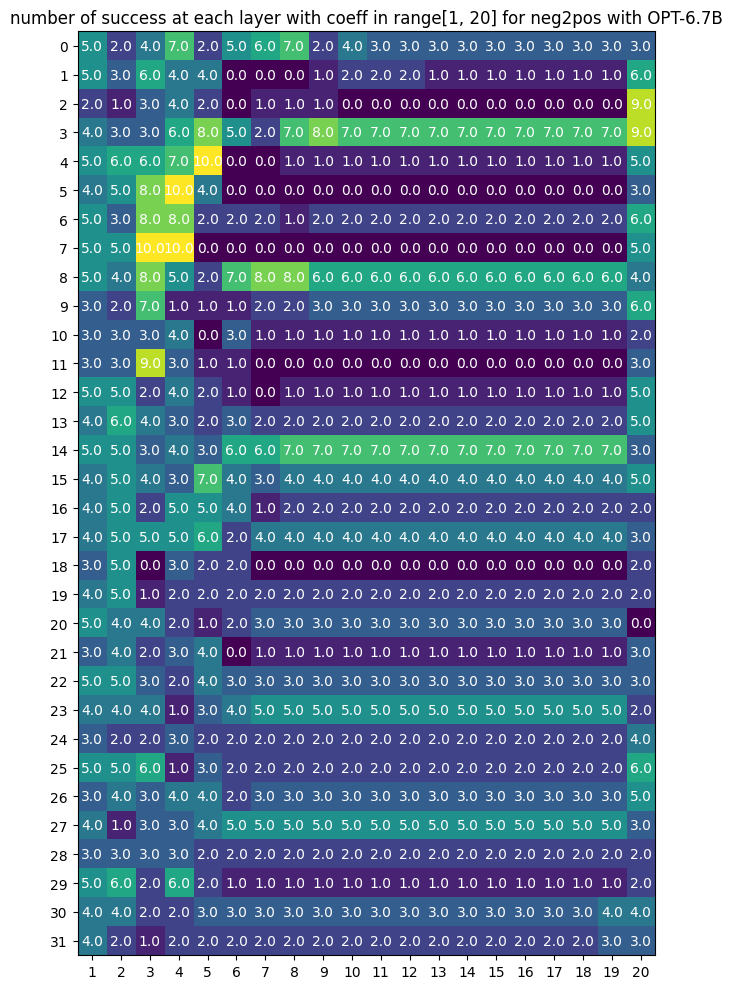
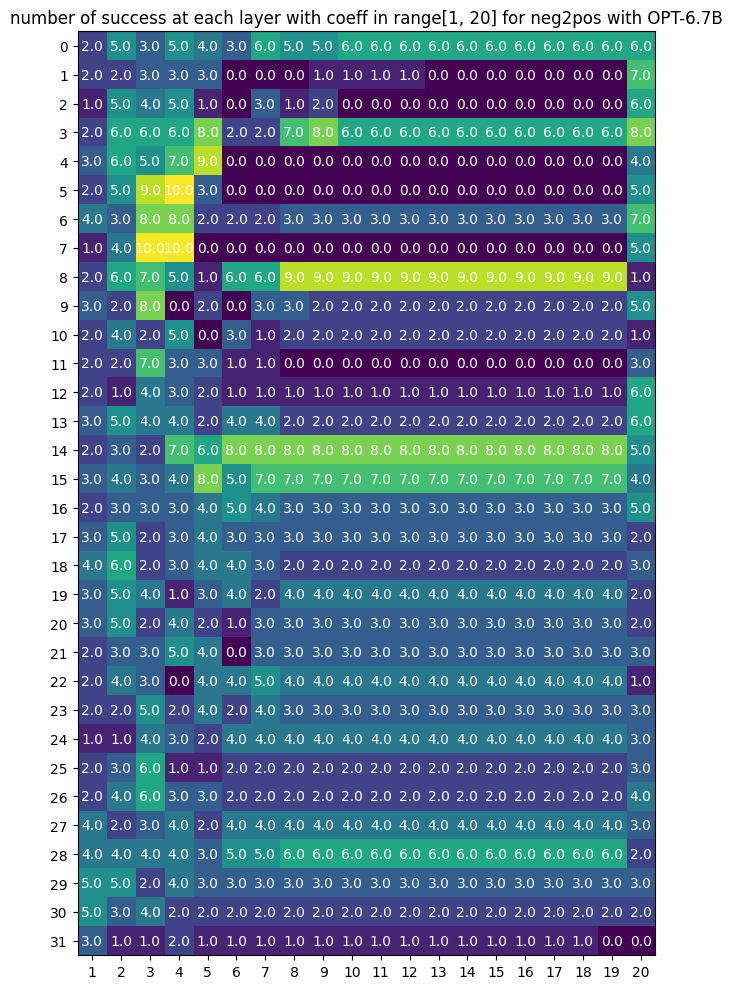
opt hp tuning

diff --git a/python_scripts/utils_aa.py b/python_scripts/utils_aa.py
@@ -1,6 +1,7 @@
 import json
 import pandas as pd
 import torch
+from config import *
 from sklearn.metrics.pairwise import cosine_similarity
 from torch.utils.data import Dataset, DataLoader
 
@@ -31,7 +32,7 @@ def hooked_generate(prompts, editing_hooks, model, seed=0, **kwargs):
     """
     torch.manual_seed(seed)
     with model.hooks(fwd_hooks=editing_hooks):
-        result = model.generate(input=prompts, max_new_tokens=64, do_sample=True, **kwargs)
+        result = model.generate(input=prompts, max_new_tokens=max_new_tokens, do_sample=True, **kwargs)
     return result
 
 def load_data(file_name, slice=0):
@@ -148,6 +149,51 @@ class ModelDataset(Dataset):
     def __len__(self):
         return self.n_samples
 
+def batch_steer(prompt_add, prompt_sub, prompts, layer, coeff, seed, model, sampling_kwargs):
+    """
+    prompts: a list of strings
+    return: a panda dataframe with two columns, "prompt", and 
+    "generated_text": the prompt and the continuing steered generated text
+    """
+    df = pd.DataFrame({"prompt": prompts})
+    # get the steering vector
+    tokens_add, tokens_sub = prompts2tokens(prompt_add, prompt_sub, model)
+    act_add = tokens2resid_pre(tokens_add, layer, model)
+    act_sub = tokens2resid_pre(tokens_sub, layer, model)
+    act_diff = act_add - act_sub
+    act_diff = act_diff * coeff
+
+    def add_activation(activation, hook):
+        if activation.shape[1] == 1: return
+        prompt_dim, steering_dim = activation.shape[1], act_diff.shape[1]
+        try:
+            activation[:, :steering_dim, :] += act_diff
+        except:
+            print(f"More mod tokens ({steering_dim}) than prompt tokens ({prompt_dim})!")
+
+    # generate with the steering vector
+    editing_hooks = [(f"blocks.{layer}.hook_resid_pre", add_activation)]
+    generated_text = hooked_generate(prompts, editing_hooks, model, seed, **sampling_kwargs)
+    df["generated_text"] = generated_text
+    return df
+
+def batch_base_generate(prompts, model, seed, kwargs):
+    """
+    prompts: a list of strings
+    return: a panda dataframe with two columns, "prompt", and 
+    "generated_text": the prompt and the continuing unsteered generated text
+    """
+    df = pd.DataFrame({"prompt": prompts})
+    torch.manual_seed(seed)
+    generated_text = model.generate(
+        input=prompts,
+        max_new_tokens=max_new_tokens, 
+        do_sample=True, 
+        **kwargs
+    )
+    df["generated_text"] = generated_text
+    return df
+
 def trim_text(row):
     """
     helper function to be applied to df 
@@ -156,6 +202,16 @@ def trim_text(row):
     gen_text = row["generated_text"]
     prompt = row["prompt"]
     return gen_text[len(prompt):]
+
+def remove_prompt(df):
+    """
+    df contains two columns: "prompt", and 
+    "generated_text": the prompt and the continuing generated text
+    return the same df but with the prompt removed from "generated_text"
+    """
+    continuation = df.apply(trim_text, axis=1)
+    df["generated_text"] = continuation
+    return df
 
 def map_labels(row):
     """
@@ -166,6 +222,30 @@ def map_labels(row):
         return 0
     if row["label"] == "POSITIVE":
         return 1
+
+def batch_sentiment(df, sentiment_model, keep_score):
+    """
+    df contains two columns: "prompt", and 
+    "generated_text": the continuing generated text
+    sentiment analyse in batch and map the sentiment label to 0/1
+    if keep_score is True, the score is included in the returned df
+    return a df with additional column(s)
+    """
+    sentiment_batch = sentiment_model(df["generated_text"].values.tolist())
+    sentiment_df = pd.DataFrame(sentiment_batch)
+    sentiment_labels = sentiment_df.apply(map_labels, axis=1)
+    df["continuation_label"] = sentiment_labels
+    if keep_score:
+        df["sentiment_score"] = sentiment_df["score"]
+    return df
+
+def pipeline_base_batch(prompts, base_model, sentiment_model, seed, sampling_kwargs, keep_score=False, relevance_model=None):
+    df = batch_base_generate(prompts, base_model, seed, sampling_kwargs)
+    df = remove_prompt(df)
+    df = batch_sentiment(df, sentiment_model, keep_score)
+    if relevance_model:
+        pass
+    return df
 
 def pipeline_steer_batch(prompt_add, prompt_sub, prompts_batch, steer_model, sentiment_model, relevance_model, layer, coeff, seed, sampling_kwargs):
     """

diff --git a/python_scripts/hyperparameter_tuning.py b/python_scripts/hyperparameter_tuning.py
@@ -1,20 +1,16 @@
 """
 https://www.geeksforgeeks.org/machine-learning/hyperparameter-tuning/
 GridSearchCV 
-for each layer, get the steering vector
-    for coeff in range(1, 21):
-        steer 10 prompts with the vector and coeff
-        count the number of success
-return the layer, coeff of the max count
 alternatives: RandomizedSearchCV and Bayesian Optimization
 """
 
 # from sentence_transformers import SentenceTransformer
 # from sklearn.metrics.pairwise import cosine_similarity
 from config import *
+from pprint import pprint
 from transformers import pipeline
 from transformer_lens.model_bridge import TransformerBridge
-from utils_aa import ht_count, load_data
+from utils_aa import ht_count, load_data, pipeline_base_batch
 import time
 import torch
 import transformer_lens.utilities as utils
@@ -24,18 +20,25 @@ device = utils.get_device()
 print("device:", device)
 
 
-if __name__ == '__main__':
-    seed, max_coeff = 0, 20
-    sampling_kwargs = dict(temperature=1.0, top_p=1.0, freq_penalty=0.0)
+def quantitative(steer_path, file_path):
+    """
+    steer_path: path to the steering model
+    file_path: the matching path for the file that contains the prompts
+    for each layer, get the steering vector
+        for coeff in range(1, 21):
+            steer 10 prompts with the vector and coeff
+            count the number of success
+    print the grid, the layer, coeff of the first max count
+    """
     # load steering model
-    model_steer = TransformerBridge.boot_transformers(path_opt, device=device)
-    print(f"steering model loaded to {device}")
+    model_steer = TransformerBridge.boot_transformers(steer_path, device=device)
+    print(f"steering model loaded to {device} from {steer_path}")
     # model_steer.enable_compatibility_mode()  # this line causes oom error
     # load sentiment model
     model_sentiment = pipeline("sentiment-analysis", model=path_siebert)
     print("sentiment model loaded")
     # load data
-    prompts_neg = load_data("imdb_neg_opt.json", 10)
+    prompts = load_data(file_path, num_samples)
     # check the number of layers
     n_layers = model_steer.cfg.n_layers
     print(f"number of layers: {n_layers}")
@@ -46,7 +49,7 @@ if __name__ == '__main__':
     for layer in range(n_layers):
         grid = ht_count(prompt_add=" love", 
                         prompt_sub=" hate", 
-                        prompts=prompts_neg, 
+                        prompts=prompts, 
                         steer_model=model_steer, 
                         sentiment_model=model_sentiment, 
                         layer=layer, 
@@ -55,5 +58,25 @@ if __name__ == '__main__':
                         grid=grid,
                         max_coeff=max_coeff)
         print(f"time elapsed: {round((time.time() - start)/60, 2)} mins")
+        break
     print(grid)
     print(f"max: {grid.max().item()} at index {(grid == grid.max().item()).nonzero(as_tuple=False)[0]}, min: {grid.min().item()} at {(grid == grid.min().item()).nonzero(as_tuple=False)[0]}")
+
+def baseline(model_path, file_path):
+    # load steering model
+    model_generate = TransformerBridge.boot_transformers(model_path, device=device)
+    print(f"baseline generating model loaded to {device} from {model_path}")
+    # load sentiment model
+    model_sentiment = pipeline("sentiment-analysis", model=path_siebert)
+    print("sentiment model loaded")
+    # load data
+    prompts = load_data(file_path, num_samples)
+    base_df = pipeline_base_batch(prompts, model_generate, model_sentiment, seed, sampling_kwargs, True, None)
+    means = base_df["sentiment_score"].groupby("continuation_label").mean()
+    print(f"{sum(base_df["continuation_label"])} positive, means: {means}")
+    pprint(base_df)
+
+if __name__ == '__main__':
+    quantitative(path_Llama3, "imdb_neg_llama.json")
+    # baseline(path_Llama3, "imdb_neg_llama.json")
+

diff --git a/python_scripts/config.py b/python_scripts/config.py
@@ -3,3 +3,11 @@ path_siebert = "/scratch/common_models/SiEBERT/"
 path_all_MiniLM = "/scratch/common_models/all-MiniLM-L6-v2/"
 path_Llama3 = "/scratch/common_models/Meta-Llama-3-8B/"
 path_opt = "/scratch/common_models/opt-6.7b/"
+
+seed = 0
+max_new_tokens = 64
+max_coeff = 20  # for hyperparameter tuning
+num_samples = 10  # for hyperparameter tuning
+sampling_kwargs = dict(temperature=1.0, top_p=1.0, freq_penalty=0.0)
+
+

diff --git a/python_scripts/batch_steer_sentiment_similarity.py b/python_scripts/batch_steer_sentiment_similarity.py
@@ -12,8 +12,7 @@ device = utils.get_device()
 print("device:", device)
     
 if __name__ == '__main__':
-    layer, coeff, seed = 6, 5, 0
-    sampling_kwargs = dict(temperature=1.0, top_p=1.0, freq_penalty=0.0)
+    layer, coeff = 6, 5
     # load steering model
     model_steer = TransformerBridge.boot_transformers(path_Llama3, device=device)
     print(f"steering model loaded to {device}")

diff --git a/python_scripts/steer_sentiment_similarity.py b/python_scripts/steer_sentiment_similarity.py
@@ -11,8 +11,7 @@ print("device:", device)
 
 
 if __name__ == '__main__':
-    layer, coeff, seed = 6, 5, 0
-    sampling_kwargs = dict(temperature=1.0, top_p=1.0, freq_penalty=0.0)
+    layer, coeff = 6, 5
     # load steering model
     model_steer = TransformerBridge.boot_transformers(path_Llama3, device=device)
     print(f"steering model loaded to {device}")

diff --git a/readme.md b/readme.md
@@ -39,7 +39,7 @@ attempted fix: `!pip install transformers==4.31.0`, error persists.
 this issue is not seen in `Transformer Lens Main Demo Notebook`, which does not specify `transformer_lens==1.17.0`              
 for this reason in this project `Version: 3.4.0` is used instead            
 to run `ActAdd_sentiment_llama3_anon` properly `==1.17.0` is commented out in the install cell
-- `from sentence_transformers import SentenceTransformer`,          
+- `from sentence_transformers import SentenceTransformer`,         
 RuntimeError: Could not load libtorchcodec. Likely causes:          
 1. FFmpeg is not properly installed           
 2. The PyTorch version (2.7.1+cu126) is not compatible              
@@ -144,8 +144,8 @@ as there are multiple combinations that lead to max count of success, further ex
 
 if possible, use the best result combination from earlier layers           
 
-- for neg2pos (love-hate) with max_coeff=20, sample_size=10
-  - LLaMA-3-8B: 197.31 mins  
+### for neg2pos (love-hate) with max_coeff=20, sample_size=10
+- LLaMA-3-8B: 197.31 mins  
 
 ![number of success at each layer with coeff in range[1, 20] for neg2pos with LLaMA-3-8B](graphs/neg2pos_llama.png "number of success at each layer with coeff in range[1, 20] for neg2pos with LLaMA-3-8B")
 <details>
@@ -188,16 +188,17 @@ if possible, use the best result combination from earlier layers
 ``` 
 </details>
 
-max: 7.0 at index tensor([10,  6]) *l=10, coeff=7*, min: 1.0 at tensor([0, 4])
+max: 7.0 at index tensor([10, 6]) *l=10, coeff=7*, min: 1.0 at tensor([0, 4])
 
 question: the paper did not specify how they did hyperparameter tuning. is eyeball-ing the result appropriate? (esp. with the smaller value)                
   - OPT-6.7B: 126.18 mins **on imdb_neg_llama.json**  
 
-![number of success at each layer with coeff in range[1, 20] for neg2pos with OPT-6.7B](graphs/neg2pos_opt.png "number of success at each layer with coeff in range[1, 20] for neg2pos with OPT-6.7B")
-
 <details>
 
-<summary>the original matrix</summary>
+<summary>expand</summary>
+
+![number of success at each layer with coeff in range[1, 20] for neg2pos with OPT-6.7B](graphs/neg2pos_opt_llama.png "number of success at each layer with coeff in range[1, 20] for neg2pos with OPT-6.7B")
+
 
 ```
        [[ 5., 2., 4., 7., 2., 5., 6., 7., 2., 4., 3., 3., 3., 3., 3., 3., 3., 3., 3., 3.],
@@ -233,9 +234,55 @@ question: the paper did not specify how they did hyperparameter tuning. is eyeba
         [ 4., 4., 2., 2., 3., 3., 3., 3., 3., 3., 3., 3., 3., 3., 3., 3., 3., 3., 4., 4.],
         [ 4., 2., 1., 2., 2., 2., 2., 2., 2., 2., 2., 2., 2., 2., 2., 2., 2., 2., 3., 3.]]
 ```
+max: 10.0 at index tensor([4, 4]), min: 0.0 at tensor([1, 5])
+
 </details>
 
-max: 10.0 at index tensor([4, 4]), min: 0.0 at tensor([1, 5])
+  - OPT-6.7B: 126.46 mins **on imdb_neg_opt.json**  
+
+![number of success at each layer with coeff in range[1, 20] for neg2pos with OPT-6.7B](graphs/neg2pos_opt.png "number of success at each layer with coeff in range[1, 20] for neg2pos with OPT-6.7B")
+
+<details>
+
+<summary>the original matrix</summary>
+
+```
+       [[ 2., 5., 3., 5., 4., 3., 6., 5., 5., 6., 6., 6., 6., 6., 6., 6., 6., 6., 6., 6.],
+        [ 2., 2., 3., 3., 3., 0., 0., 0., 1., 1., 1., 1., 0., 0., 0., 0., 0., 0., 0., 7.],
+        [ 1., 5., 4., 5., 1., 0., 3., 1., 2., 0., 0., 0., 0., 0., 0., 0., 0., 0., 0., 6.],
+        [ 2., 6., 6., 6., 8., 2., 2., 7., 8., 6., 6., 6., 6., 6., 6., 6., 6., 6., 6., 8.],
+        [ 3., 6., 5., 7., 9., 0., 0., 0., 0., 0., 0., 0., 0., 0., 0., 0., 0., 0., 0., 4.],
+        [ 2., 5., 9., 10., 3., 0., 0., 0., 0., 0., 0., 0., 0., 0., 0., 0., 0., 0., 0., 5.],
+        [ 4., 3., 8., 8., 2., 2., 2., 3., 3., 3., 3., 3., 3., 3., 3., 3., 3., 3., 3., 7.],
+        [ 1., 4., 10., 10., 0., 0., 0., 0., 0., 0., 0., 0., 0., 0., 0., 0., 0., 0., 0., 5.],
+        [ 2., 6., 7., 5., 1., 6., 6., 9., 9., 9., 9., 9., 9., 9., 9., 9., 9., 9., 9., 1.],
+        [ 3., 2., 8., 0., 2., 0., 3., 3., 2., 2., 2., 2., 2., 2., 2., 2., 2., 2., 2., 5.],
+        [ 2., 4., 2., 5., 0., 3., 1., 2., 2., 2., 2., 2., 2., 2., 2., 2., 2., 2., 2., 1.],
+        [ 2., 2., 7., 3., 3., 1., 1., 0., 0., 0., 0., 0., 0., 0., 0., 0., 0., 0., 0., 3.],
+        [ 2., 1., 4., 3., 2., 1., 1., 1., 1., 1., 1., 1., 1., 1., 1., 1., 1., 1., 1., 6.],
+        [ 3., 5., 4., 4., 2., 4., 4., 2., 2., 2., 2., 2., 2., 2., 2., 2., 2., 2., 2., 6.],
+        [ 2., 3., 2., 7., 6., 8., 8., 8., 8., 8., 8., 8., 8., 8., 8., 8., 8., 8., 8., 5.],
+        [ 3., 4., 3., 4., 8., 5., 7., 7., 7., 7., 7., 7., 7., 7., 7., 7., 7., 7., 7., 4.],
+        [ 2., 3., 3., 3., 4., 5., 4., 3., 3., 3., 3., 3., 3., 3., 3., 3., 3., 3., 3., 5.],
+        [ 3., 5., 2., 3., 4., 3., 3., 3., 3., 3., 3., 3., 3., 3., 3., 3., 3., 3., 3., 2.],
+        [ 4., 6., 2., 3., 4., 4., 3., 2., 2., 2., 2., 2., 2., 2., 2., 2., 2., 2., 2., 3.],
+        [ 3., 5., 4., 1., 3., 4., 2., 4., 4., 4., 4., 4., 4., 4., 4., 4., 4., 4., 4., 2.],
+        [ 3., 5., 2., 4., 2., 1., 3., 3., 3., 3., 3., 3., 3., 3., 3., 3., 3., 3., 3., 2.],
+        [ 2., 3., 3., 5., 4., 0., 3., 3., 3., 3., 3., 3., 3., 3., 3., 3., 3., 3., 3., 3.],
+        [ 2., 4., 3., 0., 4., 4., 5., 4., 4., 4., 4., 4., 4., 4., 4., 4., 4., 4., 4., 1.],
+        [ 2., 2., 5., 2., 4., 2., 4., 3., 3., 3., 3., 3., 3., 3., 3., 3., 3., 3., 3., 3.],
+        [ 1., 1., 4., 3., 2., 4., 4., 4., 4., 4., 4., 4., 4., 4., 4., 4., 4., 4., 4., 3.],
+        [ 2., 3., 6., 1., 1., 2., 2., 2., 2., 2., 2., 2., 2., 2., 2., 2., 2., 2., 2., 3.],
+        [ 2., 4., 6., 3., 3., 2., 2., 2., 2., 2., 2., 2., 2., 2., 2., 2., 2., 2., 2., 4.],
+        [ 4., 2., 3., 4., 2., 4., 4., 4., 4., 4., 4., 4., 4., 4., 4., 4., 4., 4., 4., 3.],
+        [ 4., 4., 4., 4., 3., 5., 5., 6., 6., 6., 6., 6., 6., 6., 6., 6., 6., 6., 6., 2.],
+        [ 5., 5., 2., 4., 3., 3., 3., 3., 3., 3., 3., 3., 3., 3., 3., 3., 3., 3., 3., 3.],
+        [ 5., 3., 4., 2., 2., 2., 2., 2., 2., 2., 2., 2., 2., 2., 2., 2., 2., 2., 2., 2.],
+        [ 3., 1., 1., 2., 1., 1., 1., 1., 1., 1., 1., 1., 1., 1., 1., 1., 1., 1., 0., 0.]]
+```
+</details>
+
+max: 10.0 at index tensor([5, 3]), min: 0.0 at tensor([1, 5])
 
 ## TODO
 Each datapoint in imdb has a 0 or 1 label showing the sentiment. After truncating, are the remaining prompts going to remain their original sentiment?
